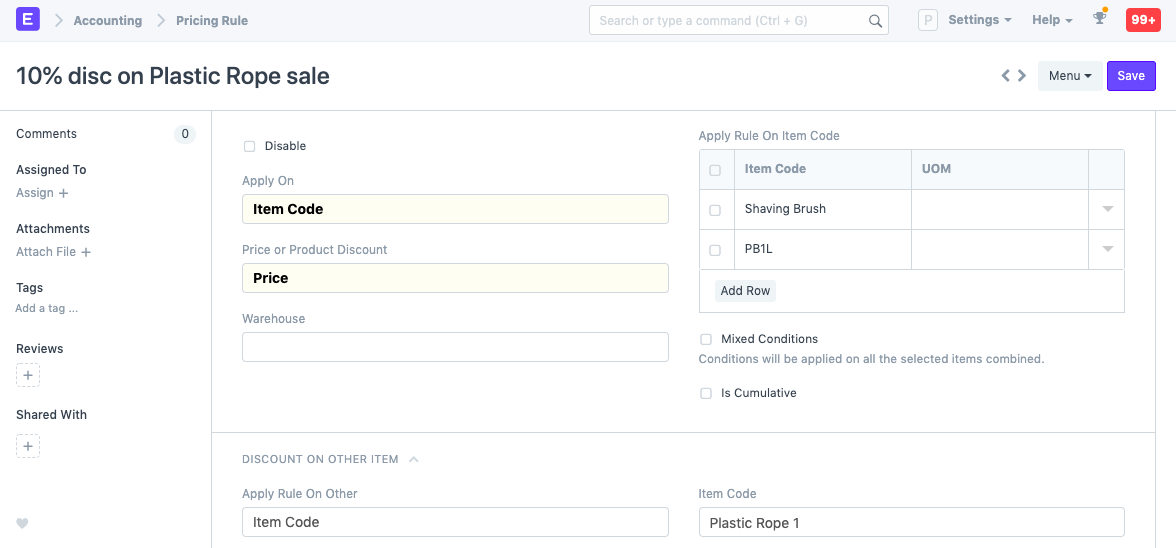
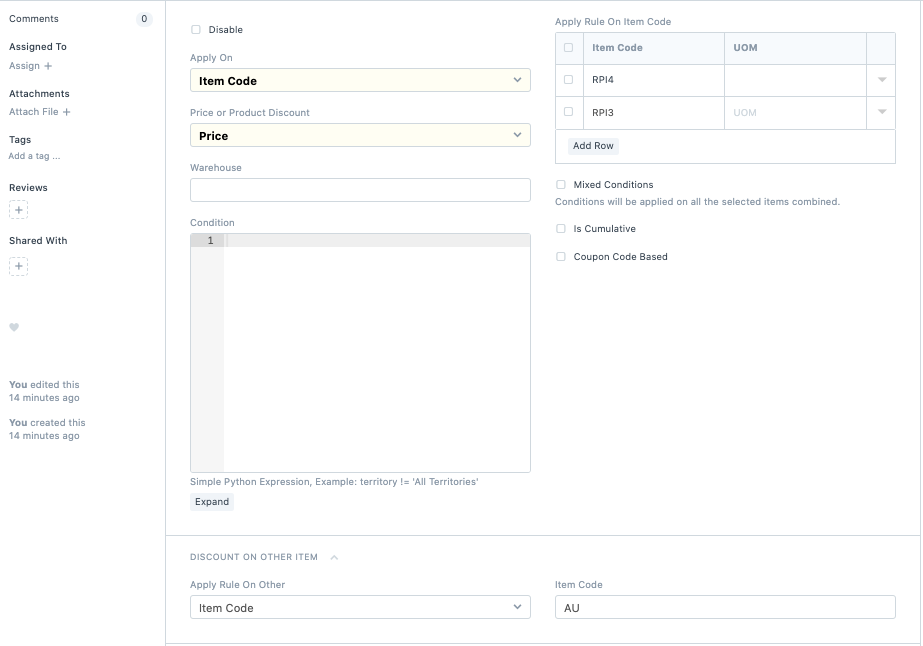
docs: condition field in pricing rule

diff --git a/erpnext_documentation/www/docs/user/manual/en/accounts/pricing-rule.md b/erpnext_documentation/www/docs/user/manual/en/accounts/pricing-rule.md
@@ -37,7 +37,7 @@ Before creating and using a Pricing Rule, it is advisable to create the followin
 1. For a single item, select Item Code and select the items.
 1. If you want Pricing Rule to be applied on all the items, select 'Item Group' and select **All Item Group** (parent Item Group).
 1. Set the discount/price to be applied. To know more, [go to this section](/docs/user/manual/en/accounts/pricing-rule#35-price-discount-scheme).
-1. Save. 
+1. Save.
 
 ### 2.1 Additional options when creating a Pricing Rule
 
@@ -55,6 +55,15 @@ Based on the attribute selected in the 'Apply On' field, you can set the Pricing
 In this table, you can select the specific Item/Item Group/Brand. For example, if you select Apply On 'Item Group' and select 'Raw Materials' in the table, this Pricing Rule will be applied only on Items that belong to the Group 'Raw Materials'.
 
 **UoM**: The Pricing Rule will apply only if the UoM set here matches with the transaction.
+
+#### Condition
+
+In this field you can add a condition in python to check against field vales in the transaction doctype like shown below for Sales Invoice:
+```
+customer=='Customer Name' and status!='Overdue'
+```
+
+Please note that only single line python conditions will work using fieldnames of the target doctype.
 
 #### Mixed Conditions
 If you select two or more Items and set the Min and Max Quantity. The Pricing Rule will be applied only if the total sum of Items matches the set quantities. For example, you create a Pricing Rule on Item 1 and Item 2 and set the Min and Max Quantity as 30, the Pricing Rule will apply only if the total quantity is 30.
@@ -96,8 +105,8 @@ Note that if the quantity or amount falls short or exceeds the limits set here, 
 
 <img alt="Applicable Qty" class="screenshot" src="{{docs_base_url}}/assets/img/articles/pricing-rule-qty-amt.png">
 
-### 3.4 Validity 
-You can also set a date interval for when the Pricing Rule will be valid. This is useful for a sales promotion. On leaving the dates blank the Pricing Rule will not have any time frame limit. 
+### 3.4 Validity
+You can also set a date interval for when the Pricing Rule will be valid. This is useful for a sales promotion. On leaving the dates blank the Pricing Rule will not have any time frame limit.
 
 <img alt="Period" class="screenshot" src="{{docs_base_url}}/assets/img/articles/pricing-rule-period.png">
 
@@ -105,7 +114,7 @@ You can also set a date interval for when the Pricing Rule will be valid. This i
 
 ![Pricing Rule Margin](/docs/assets/img/articles/pricing-rule-margin1.png)
 
-* **Margin Type**: When selling an Item, you may sell it for a certain margin. If you don't want to add selling prices to Items every time and would like to automatically set a margin, it can be done with this feature. 
+* **Margin Type**: When selling an Item, you may sell it for a certain margin. If you don't want to add selling prices to Items every time and would like to automatically set a margin, it can be done with this feature.
 
 * **Margin Rate or Amount**: The margin set can be based on Percentage or Amount, eg: 5% margin or $50 fixed margin.
 
@@ -130,7 +139,7 @@ The actual rule to be applied is set in this section.
 
 * **Apply Multiple Pricing Rules**: To understand this, consider an Item of Rate 500. There are two Pricing Rules on it P1 and P2. P1 applies 10% discount and P2 applies 5%. Enabling this option will apply a total of 15% on the Item Rate which gives 425.
 
-* **Apply Discount on Rate**: The discount will be compounded. Consider the same scenario as above. On enabling this option, 10% will be applied on 500 which will give 450, then 5% will be applied on 450 which will give 427.5. 
+* **Apply Discount on Rate**: The discount will be compounded. Consider the same scenario as above. On enabling this option, 10% will be applied on 500 which will give 450, then 5% will be applied on 450 which will give 427.5.
 
 * **Validate Applied Rule**: Shows the entered validation message if the discount/rate set manually by you in a transaction does not match the Pricing Rule.
 
